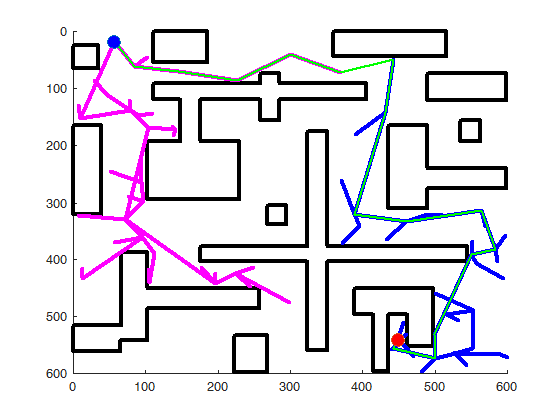
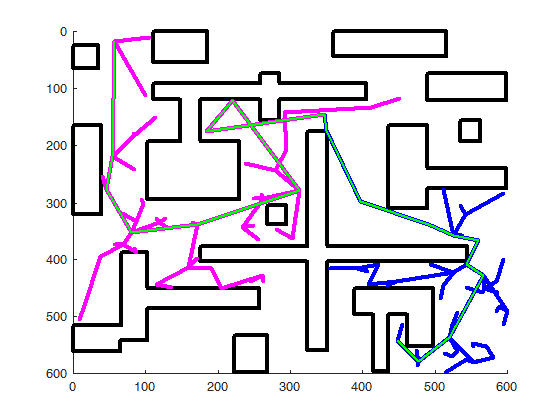
Add files via upload

diff --git a/hw5/part2/Find_path_bi.m b/hw5/part2/Find_path_bi.m
@@ -139,11 +139,15 @@ while itr <= param.max_itr
             ind = find(dist_min_c2==dist);
             pp = p_a(ind,:);
             pp2 = p2;
+            flg_m = 0;
+            flg_b = 1;
         else
             dist = dist_min_c;
             ind = find(dist_min_c==dist);
             pp = p;
             pp2 = p2_a(ind,:);
+            flg_m = 1;
+            flg_b = 0;
         end
 
         fprintf('Nodes:   %d, Distance: %.1f, Iterations: %d\n',length(rrt),dist,itr)
@@ -169,6 +173,12 @@ while itr <= param.max_itr
         rrt = Add_node(rrt,p2,length(rrt));
         rrt2 = Add_node(rrt2,p,length(rrt2));
         
+        if flg_m==1
+            plot([p2(1,1),p(1,1)],[p2(1,2),p(1,2)],'m','LineWidth',3);
+        else
+            plot([p2(1,1),p(1,1)],[p2(1,2),p(1,2)],'b','LineWidth',3);
+        end
+              
         % construct the shortest path fromt the start
         i = length(rrt);
         path = rrt{i}.p;
@@ -179,7 +189,7 @@ while itr <= param.max_itr
             end
             path = [rrt{i}.p; path];
         end
-        
+                
         % construct the shortest path from the goal and exit with success
         i = length(rrt2);
         path2 = rrt2{i}.p;
